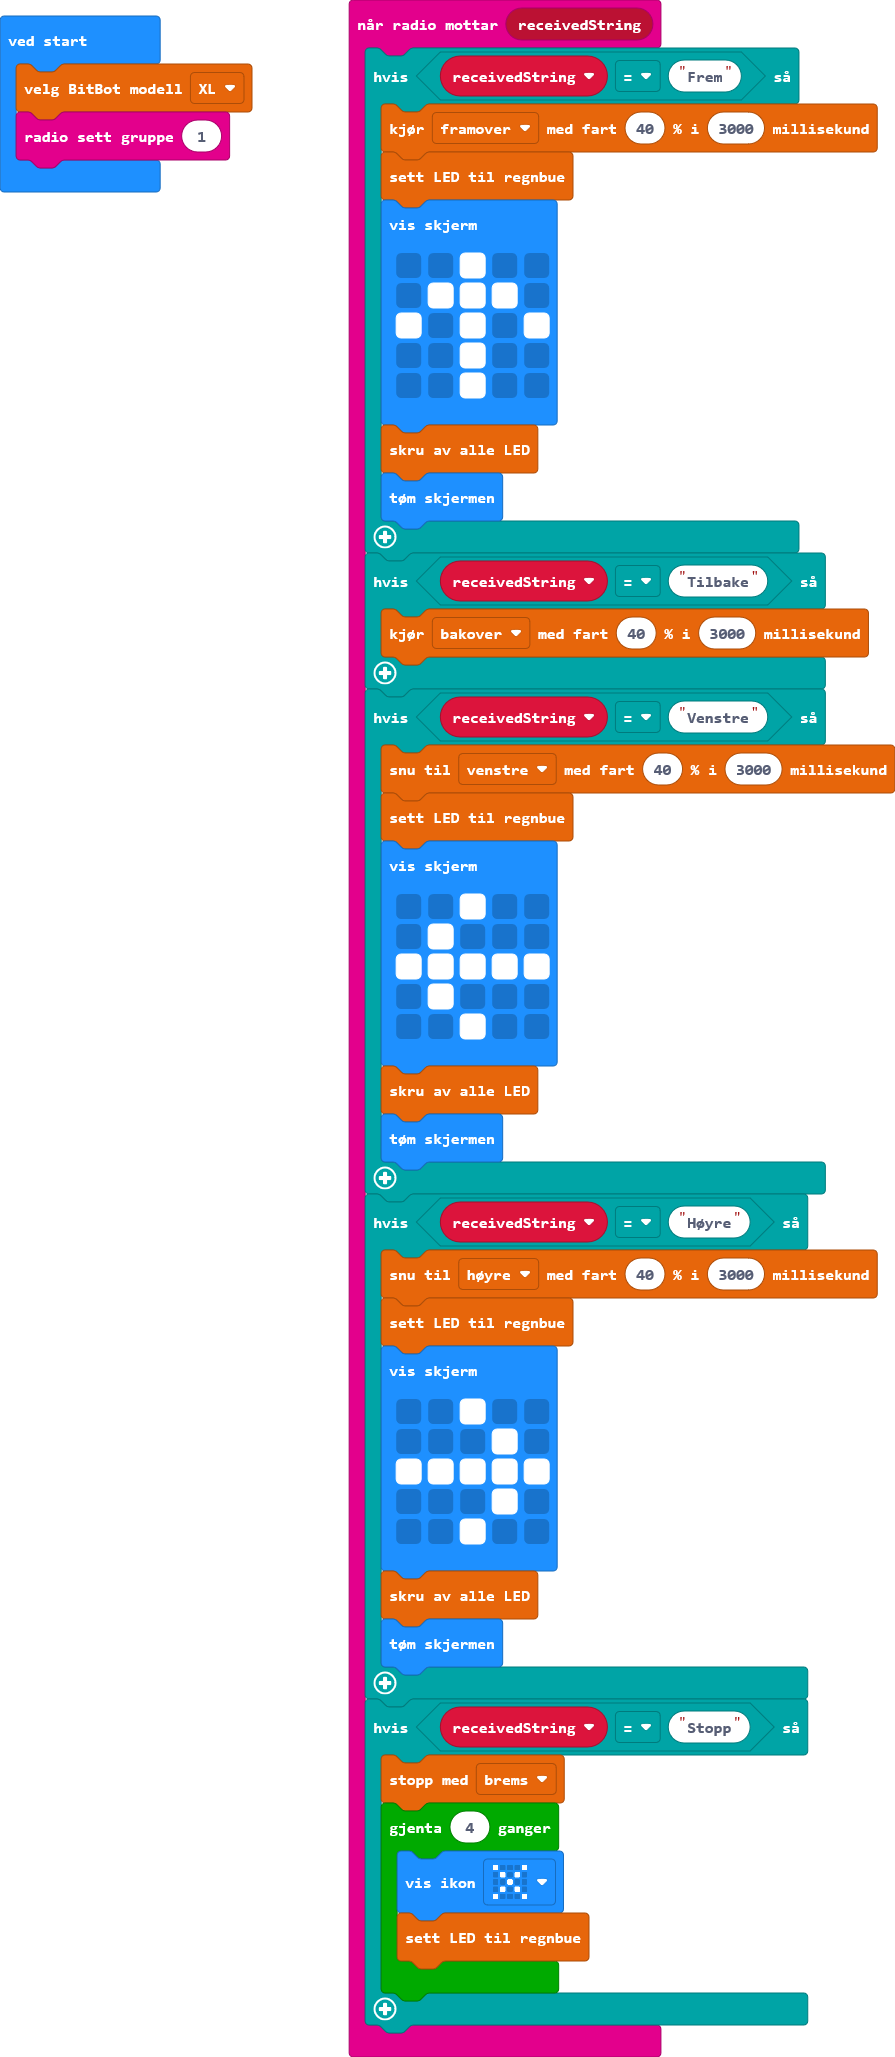
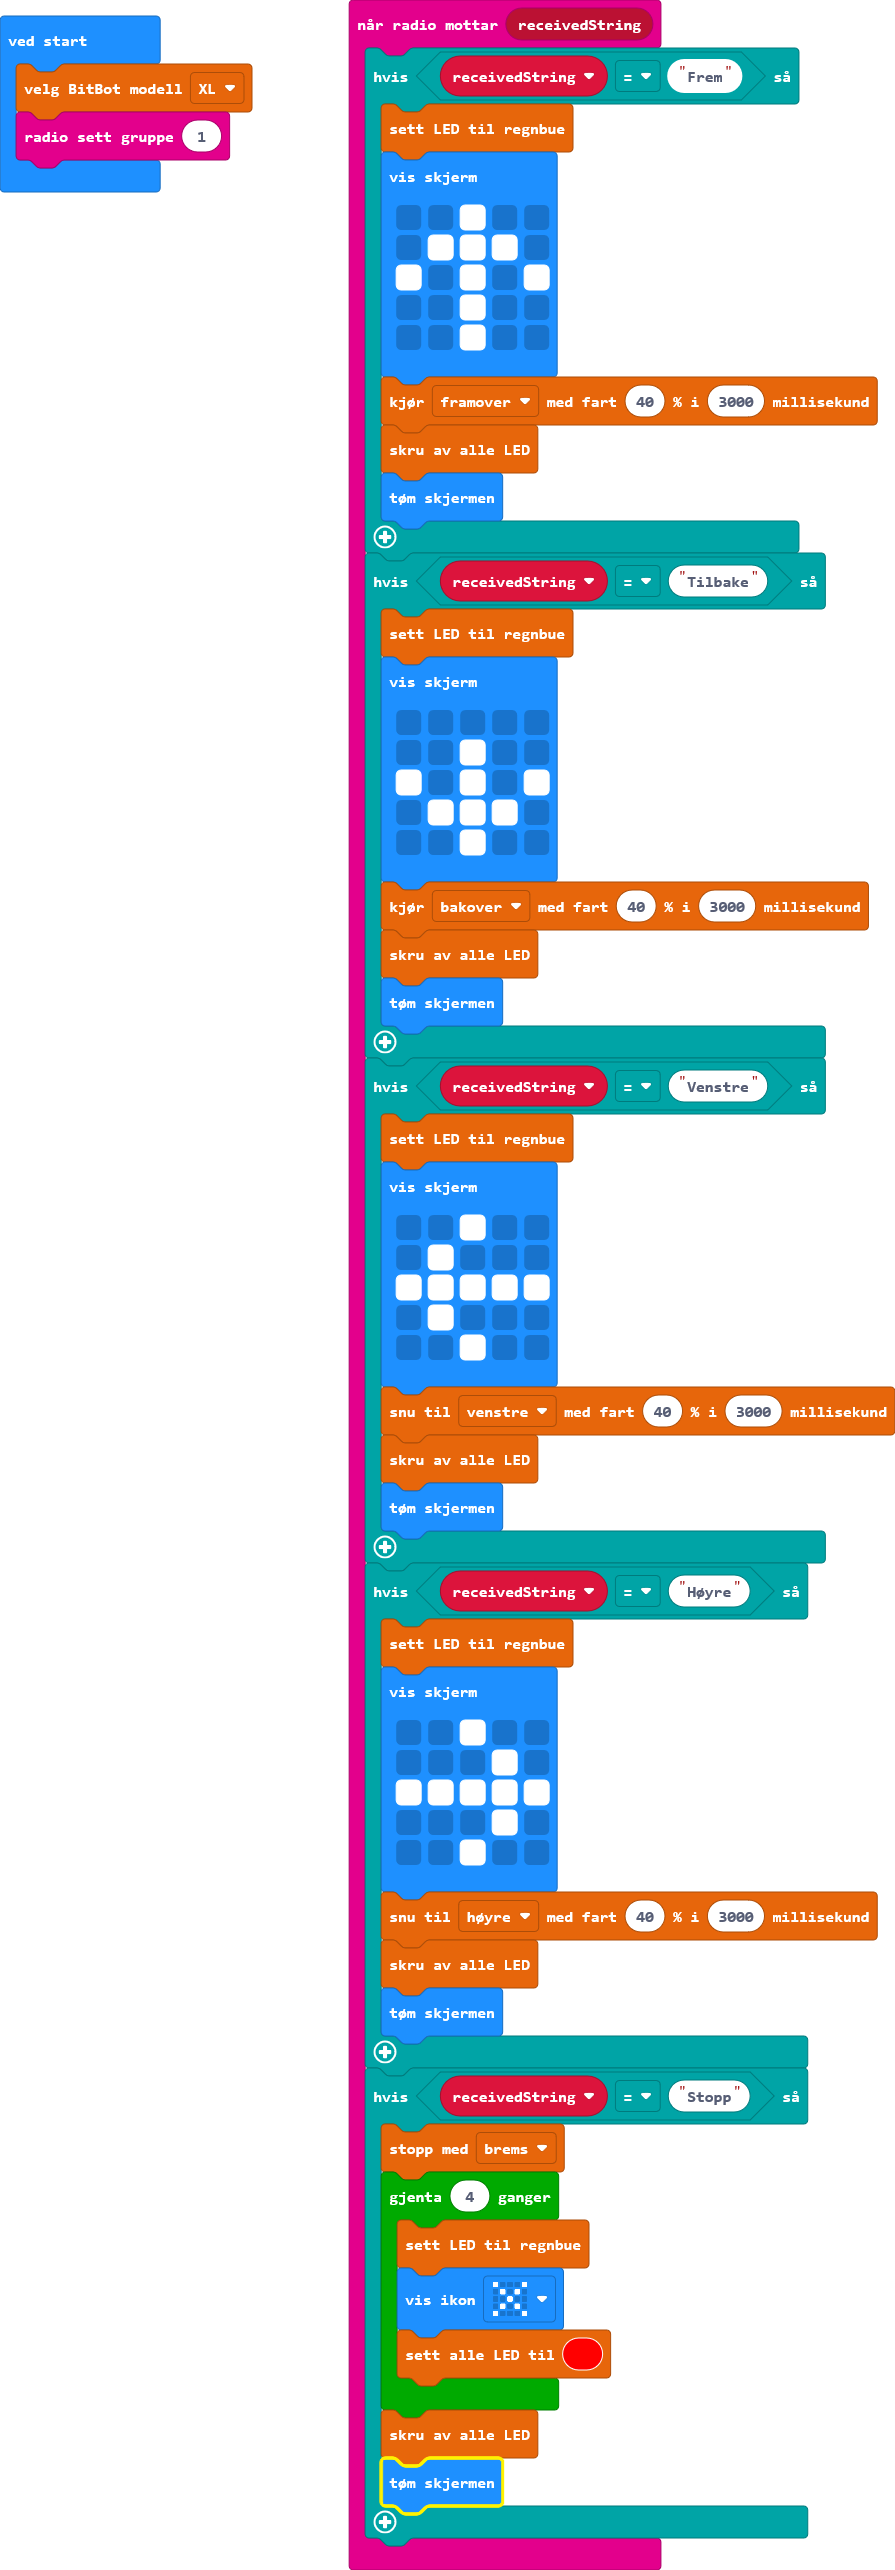
Oppdater main.blocks, main.ts

Changed region(s): [[0.3922, 0.0, 1.0, 0.9956], [0.0, 0.0, 0.3017, 0.0933]]

diff --git a/main.ts b/main.ts
@@ -1,6 +1,5 @@
 radio.onReceivedString(function (receivedString) {
     if (receivedString == "Frem") {
-        bitbot.goms(BBDirection.Forward, 40, 3000)
         bitbot.ledRainbow()
         basic.showLeds(`
             . . # . .
@@ -9,14 +8,24 @@ radio.onReceivedString(function (receivedString) {
             . . # . .
             . . # . .
             `)
+        bitbot.goms(BBDirection.Forward, 40, 3000)
         bitbot.ledClear()
         basic.clearScreen()
     }
     if (receivedString == "Tilbake") {
+        bitbot.ledRainbow()
+        basic.showLeds(`
+            . . . . .
+            . . # . .
+            # . # . #
+            . # # # .
+            . . # . .
+            `)
         bitbot.goms(BBDirection.Reverse, 40, 3000)
+        bitbot.ledClear()
+        basic.clearScreen()
     }
     if (receivedString == "Venstre") {
-        bitbot.rotatems(BBRobotDirection.Left, 40, 3000)
         bitbot.ledRainbow()
         basic.showLeds(`
             . . # . .
@@ -25,11 +34,11 @@ radio.onReceivedString(function (receivedString) {
             . # . . .
             . . # . .
             `)
+        bitbot.rotatems(BBRobotDirection.Left, 40, 3000)
         bitbot.ledClear()
         basic.clearScreen()
     }
     if (receivedString == "Høyre") {
-        bitbot.rotatems(BBRobotDirection.Right, 40, 3000)
         bitbot.ledRainbow()
         basic.showLeds(`
             . . # . .
@@ -38,15 +47,19 @@ radio.onReceivedString(function (receivedString) {
             . . . # .
             . . # . .
             `)
+        bitbot.rotatems(BBRobotDirection.Right, 40, 3000)
         bitbot.ledClear()
         basic.clearScreen()
     }
     if (receivedString == "Stopp") {
         bitbot.stop(BBStopMode.Brake)
         for (let index = 0; index < 4; index++) {
-            basic.showIcon(IconNames.No)
             bitbot.ledRainbow()
+            basic.showIcon(IconNames.No)
+            bitbot.setLedColor(0xFF0000)
         }
+        bitbot.ledClear()
+        basic.clearScreen()
     }
 })
 bitbot.select_model(BBModel.XL)
